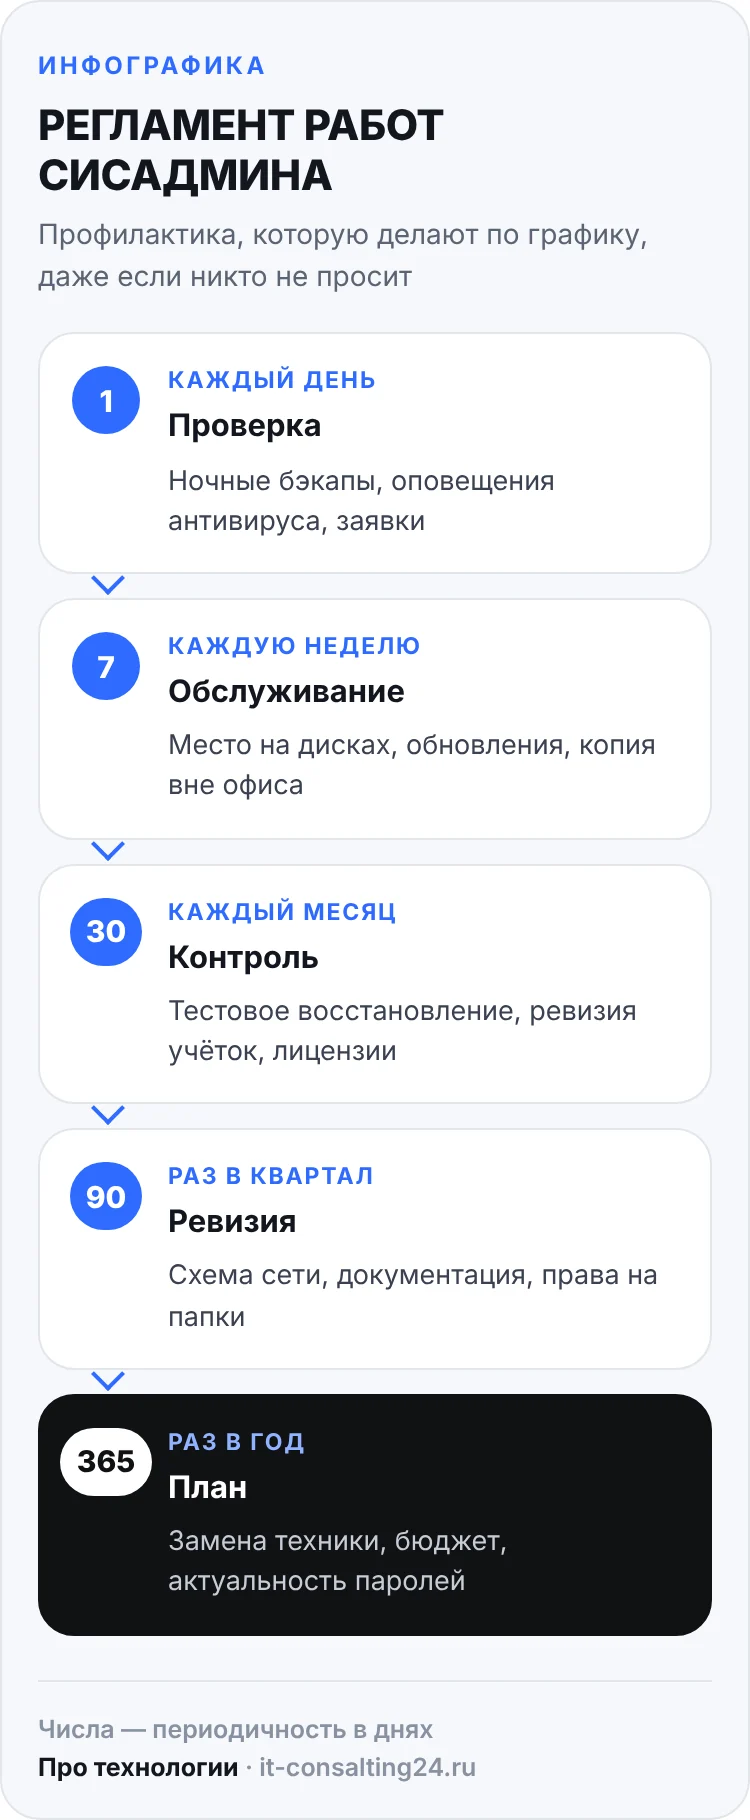
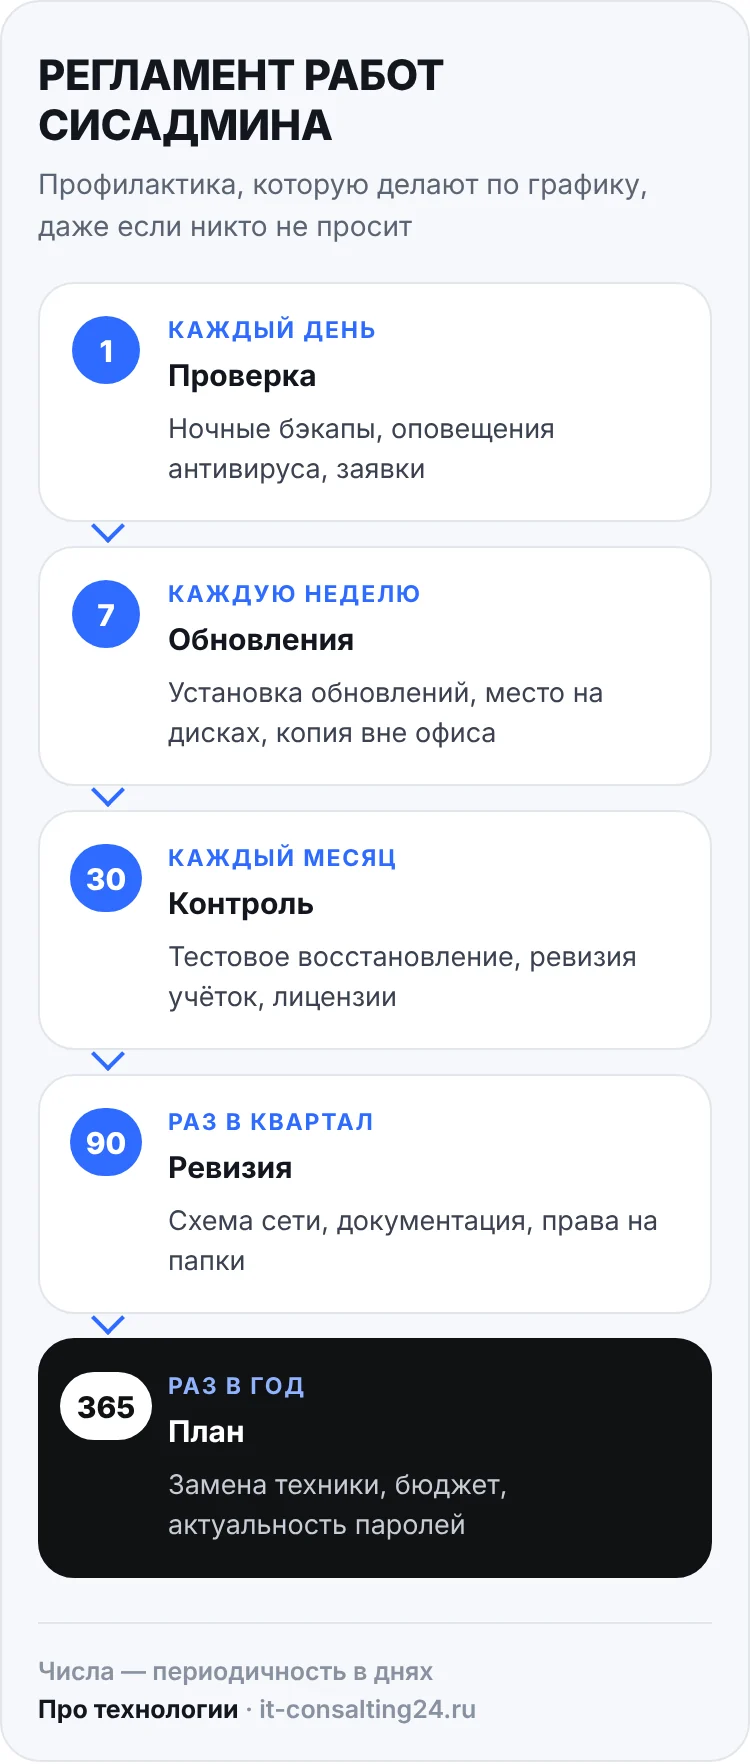
Блог: убрана надпись «Инфографика» в статье про сисадмина, поправлены переносы в шагах

diff --git a/1c-konsol-administrirovaniya.html b/1c-konsol-administrirovaniya.html
@@ -310,7 +310,7 @@
   <article class="art">
 <p>Консоль администрирования серверов 1С — это оснастка Windows (MMC), через которую управляют кластером: базами, сеансами, рабочими процессами. Чтобы она заработала, нужны три условия: компонент установлен, библиотека <code>radmin.dll</code> зарегистрирована в той же версии, что и сервер, и компьютер видит агент сервера по сети. Ниже — по шагам, а в конце разбор частых ошибок.</p>
 
-<figure class="ig"><picture><source media="(max-width:640px)" srcset="./img/blog/1c-konsol-administrirovaniya-shagi-m.webp" width="750" height="1636"><img src="./img/blog/1c-konsol-administrirovaniya-shagi.webp" width="1640" height="1112" alt="Инфографика: 4 шага запуска консоли администрирования серверов 1С — установить компонент, зарегистрировать radmin.dll, запустить консоль, подключиться к серверу по порту 1540" loading="lazy" decoding="async"></picture><figcaption>Порядок действий: от установки компонента до подключения к агенту сервера</figcaption></figure>
+<figure class="ig"><picture><source media="(max-width:640px)" srcset="./img/blog/1c-konsol-administrirovaniya-shagi-m.webp" width="750" height="1632"><img src="./img/blog/1c-konsol-administrirovaniya-shagi.webp" width="1640" height="1108" alt="Инфографика: 4 шага запуска консоли администрирования серверов 1С — установить компонент, зарегистрировать radmin.dll, запустить консоль, подключиться к серверу по порту 1540" loading="lazy" decoding="async"></picture><figcaption>Порядок действий: от установки компонента до подключения к агенту сервера</figcaption></figure>
 <h2>1. Установите компонент администрирования</h2>
 <p>Консоль ставится вместе с платформой, но только если при установке отмечен компонент «Администрирование сервера 1С:Предприятия». Если на компьютере стоит только клиент, запустите <code>setup.exe</code> полного дистрибутива той же версии, выберите «Изменить» и добавьте этот компонент.</p>
 
@@ -330,7 +330,7 @@
 <h2>4. Подключитесь к серверу</h2>
 <p>В дереве слева нажмите правой кнопкой на «Central 1C:Enterprise 8.3 servers» → «Создать» → «Центральный сервер 1С:Предприятия 8.3». Укажите имя компьютера, где работает сервер, и порт агента — по умолчанию <code>1540</code>. После этого в дереве появятся кластер и информационные базы.</p>
 
-<figure class="ig"><picture><source media="(max-width:640px)" srcset="./img/blog/1c-konsol-administrirovaniya-porty-m.webp" width="750" height="1688"><img src="./img/blog/1c-konsol-administrirovaniya-porty.webp" width="1640" height="1018" alt="Инфографика: порты сервера 1С — агент ragent 1540, менеджер кластера rmngr 1541, рабочие процессы rphost 1560–1591" loading="lazy" decoding="async"></picture><figcaption>Порты, которые должны быть открыты между консолью и сервером 1С</figcaption></figure>
+<figure class="ig"><picture><source media="(max-width:640px)" srcset="./img/blog/1c-konsol-administrirovaniya-porty-m.webp" width="750" height="1682"><img src="./img/blog/1c-konsol-administrirovaniya-porty.webp" width="1640" height="1016" alt="Инфографика: порты сервера 1С — агент ragent 1540, менеджер кластера rmngr 1541, рабочие процессы rphost 1560–1591" loading="lazy" decoding="async"></picture><figcaption>Порты, которые должны быть открыты между консолью и сервером 1С</figcaption></figure>
 <h2>Частые ошибки и что с ними делать</h2>
 <div class="tbl"><table>
   <tr><th>Что видите</th><th>Причина</th><th>Что сделать</th></tr>

diff --git a/obyazannosti-sistemnogo-administratora.html b/obyazannosti-sistemnogo-administratora.html
@@ -321,7 +321,7 @@
 
 <h2>Основные обязанности системного администратора: полный список</h2>
 <p>Удобнее всего делить работу сисадмина на направления. В каждом есть «текущие» задачи (сделать по запросу) и «профилактические» (делать регулярно, даже если никто не просит). Именно вторые чаще всего и выпадают.</p>
-<figure class="ig"><picture><source media="(max-width:640px)" srcset="./img/blog/obyazannosti-sistemnogo-administratora-zony-m.webp" width="750" height="2576"><img src="./img/blog/obyazannosti-sistemnogo-administratora-zony.webp" width="1640" height="1536" alt="Инфографика: 8 зон ответственности системного администратора — рабочие места, серверы и 1С, сеть и VPN, резервные копии, безопасность, учёт и лицензии, периферия, документация" loading="lazy" decoding="async"></picture><figcaption>Восемь направлений, которые должны быть закреплены за сисадмином или подрядчиком</figcaption></figure>
+<figure class="ig"><picture><source media="(max-width:640px)" srcset="./img/blog/obyazannosti-sistemnogo-administratora-zony-m.webp" width="750" height="2526"><img src="./img/blog/obyazannosti-sistemnogo-administratora-zony.webp" width="1640" height="1486" alt="Инфографика: 8 зон ответственности системного администратора — рабочие места, серверы и 1С, сеть и VPN, резервные копии, безопасность, учёт и лицензии, периферия, документация" loading="lazy" decoding="async"></picture><figcaption>Восемь направлений, которые должны быть закреплены за сисадмином или подрядчиком</figcaption></figure>
 
 <h3>1. Рабочие места и пользователи</h3>
 <ul>
@@ -391,7 +391,7 @@
 <tr><td>Раз в год</td><td>План замены устаревшей техники и бюджет на следующий год; проверка, что все пароли администраторов актуальны и лежат в хранилище</td></tr>
 </table></div>
 
-<figure class="ig"><picture><source media="(max-width:640px)" srcset="./img/blog/obyazannosti-sistemnogo-administratora-reglament-m.webp" width="750" height="1820"><img src="./img/blog/obyazannosti-sistemnogo-administratora-reglament.webp" width="1640" height="990" alt="Инфографика: регламент работ системного администратора — каждый день, каждую неделю, каждый месяц, раз в квартал и раз в год" loading="lazy" decoding="async"></picture><figcaption>Регламент профилактических работ: от ежедневной проверки бэкапов до годового плана</figcaption></figure>
+<figure class="ig"><picture><source media="(max-width:640px)" srcset="./img/blog/obyazannosti-sistemnogo-administratora-reglament-m.webp" width="750" height="1764"><img src="./img/blog/obyazannosti-sistemnogo-administratora-reglament.webp" width="1640" height="898" alt="Инфографика: регламент работ системного администратора — каждый день, каждую неделю, каждый месяц, раз в квартал и раз в год" loading="lazy" decoding="async"></picture><figcaption>Регламент профилактических работ: от ежедневной проверки бэкапов до годового плана</figcaption></figure>
 <h2>Типы администраторов: кого вы на самом деле ищете</h2>
 <p>Под словом «сисадмин» часто имеют в виду разных специалистов. Полезно понимать разницу, чтобы не переплачивать и не ждать невозможного.</p>
 <ul>

diff --git a/zashchita-ot-shifrovalshchikov.html b/zashchita-ot-shifrovalshchikov.html
@@ -326,7 +326,7 @@
 </ul>
 <p>Дальше атака обычно развивается по одной схеме: вирус закрепляется в системе, изучает сеть, пытается получить права администратора, удаляет или портит резервные копии и только потом запускает шифрование — часто ночью или в выходные, когда никто не смотрит на компьютеры. Между проникновением и шифрованием может пройти от нескольких часов до нескольких недель, поэтому ранние признаки важно замечать: внезапно отключённый антивирус, незнакомые учётные записи, необычная активность на сервере по ночам.</p>
 
-<figure class="ig"><picture><source media="(max-width:640px)" srcset="./img/blog/zashchita-ot-shifrovalshchikov-ataka-m.webp" width="750" height="1958"><img src="./img/blog/zashchita-ot-shifrovalshchikov-ataka.webp" width="1640" height="1152" alt="Инфографика: этапы атаки шифровальщика — вход в сеть, закрепление, получение прав администратора, удаление резервных копий, шифрование" loading="lazy" decoding="async"></picture><figcaption>Шифрование — последний этап атаки. Чем раньше заметить предыдущие, тем меньше потери</figcaption></figure>
+<figure class="ig"><picture><source media="(max-width:640px)" srcset="./img/blog/zashchita-ot-shifrovalshchikov-ataka-m.webp" width="750" height="1950"><img src="./img/blog/zashchita-ot-shifrovalshchikov-ataka.webp" width="1640" height="1150" alt="Инфографика: этапы атаки шифровальщика — вход в сеть, закрепление, получение прав администратора, удаление резервных копий, шифрование" loading="lazy" decoding="async"></picture><figcaption>Шифрование — последний этап атаки. Чем раньше заметить предыдущие, тем меньше потери</figcaption></figure>
 <h2>Резервные копии — главная защита от шифровальщиков</h2>
 <p>Если после атаки у вас есть свежая неповреждённая копия данных, шифровальщик превращается из катастрофы в неприятность на день-два. Поэтому начинать стоит именно с бэкапов, а не с покупки нового антивируса.</p>
 <p>Ориентир — правило <strong>3-2-1</strong>: три копии данных (рабочая и две резервные), на двух разных типах носителей, и одна из копий — вне офиса. Но для защиты от шифровальщиков важнее другое: хотя бы одна копия должна быть <strong>недоступна с заражённого компьютера</strong>. Если резервная папка видна в сети как обычный диск, вирус зашифрует её вместе со всем остальным.</p>
